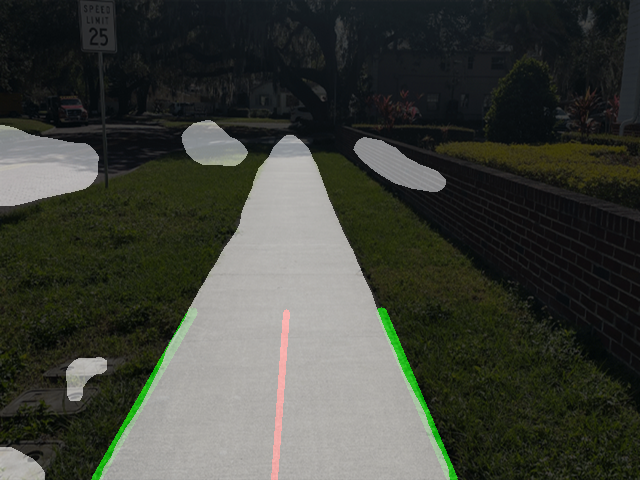
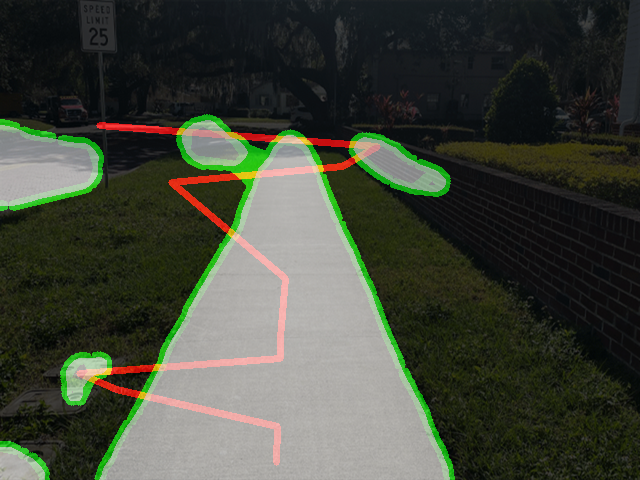
draw lines between waypoints

diff --git a/calc_steering_angle.py b/calc_steering_angle.py
@@ -1,7 +1,6 @@
 import os
 import cv2
 import numpy as np
-import logging
 import math
 from PIL import Image
 
@@ -12,11 +11,18 @@ _REDUCED_ROI = False
 '''
 Hough Line Function Parameters
 '''
-rho = 5                  # Resolution of accumulator buckets in pixels, Larger -> more lines
-angle = 1                # Angle resolution of the accumulator in degrees, converted to radians. Larger -> fewer lines found
-min_threshold = 5       # minimal of votes to determine line exists. Larger -> fewer lines
-minLineLength = 1       # minimum length of segment to be considered a line. In pixels
-maxLineGap = 20          # maximum distance between 2 segments to be considered a continuous line
+rho = 5             # Resolution of accumulator buckets in pixels, Larger -> more lines
+angle = 1           # Angle resolution of the accumulator in degrees, converted to radians. Larger -> fewer lines found
+min_threshold = 5   # minimal of votes to determine line exists. Larger -> fewer lines
+minLineLength = 1   # minimum length of segment to be considered a line. In pixels
+maxLineGap = 20     # maximum distance between 2 segments to be considered a continuous line
+
+'''
+Waypoint Parameters
+'''
+x_threshold = 25
+y_threshold = 15
+waypoint_steps = 20
 
 class HandCodedLaneFollower(object):
 
@@ -28,12 +34,9 @@ class HandCodedLaneFollower(object):
     def follow_lane(self, frame):
 
         frame = np.array(frame)
-
-        # Main entry point of the lane follower
         show_image("1-orig", frame)
 
         lane_lines, frame = detect_lane(frame)
-
         final_frame = self.steer(frame, lane_lines)
 
         return final_frame
@@ -46,14 +49,17 @@ class HandCodedLaneFollower(object):
 
         show_image("7-heading", curr_heading_image)
 
+        if (_CURVES):
+            draw_waypoint_lines(frame, waypoints)
+            curr_heading_image = draw_waypoint_lines(frame, waypoints)
+            show_image("8-waypoints", curr_heading_image)
+
         return curr_heading_image
 
 ############################
 # Frame processing steps
 ############################
 def detect_lane(frame):
-    logging.debug('detecting lane lines...')
-
     edges = detect_edges(frame)
     show_image('2-edges', edges)
 
@@ -70,12 +76,10 @@ def detect_lane(frame):
 
     return lane_lines, lane_lines_image
 
-# detects blue lines formed by edge detected algo
 def detect_edges(frame):
     edges = cv2.Canny(np.array(frame), 50, 200)
     return edges
 
-# Used to remove segmentations that are too far away and are irrelevant to the current state of the bot.
 def region_of_interest(img):
     """
     Applies an image mask.
@@ -94,13 +98,13 @@ def region_of_interest(img):
     left_up = [0, 0]
     right_up = [width - 1, 0]
     if (_REDUCED_ROI):
-        left_up = [scale_w * width, scale_h * height] # for reduced ROI
-        right_up = [(1 - scale_w) * width, scale_h * height] # for reduced ROI
+        left_up = [scale_w * width, scale_h * height]
+        right_up = [(1 - scale_w) * width, scale_h * height]
     vertices = np.array([[left_bottom, left_up, right_up, right_bottom]], dtype=np.int32)
 
     # defining a 3 channel or 1 channel color to fill the mask with depending on the input image
     if len(img.shape) > 2:
-        channel_count = img.shape[2]  # i.e. 3 or 4 depending on your image
+        channel_count = img.shape[2]
         ignore_mask_color = (255,) * channel_count
     else:
         ignore_mask_color = 255
@@ -140,10 +144,10 @@ def average_slope_intercept(frame, line_segments):
     right_fit = []
 
     boundary = 1/3
-    left_region_boundary = width * (1 - boundary)  # left lane line segment should be on left 2/3 of the screen
-    right_region_boundary = width * boundary # right lane line segment should be on left 2/3 of the screen
+    left_region_boundary = width * (1 - boundary)   # left lane line segment should be on left 2/3 of the screen
+    right_region_boundary = width * boundary        # right lane line segment should be on left 2/3 of the screen
 
-    threshold_angle = 25  # if the line angle is between -25 to 25 degrees, lines are discarded
+    threshold_angle = 25  # discard lines between -25 and +25 degrees
     threshold_slope = math.tan(threshold_angle / 180 * math.pi)
 
     for line_segment in line_segments:
@@ -152,9 +156,9 @@ def average_slope_intercept(frame, line_segments):
             slope = fit[0]
             intercept = fit[1]
 
-            if x1 == x2: # line is vertical, skip
+            if x1 == x2:                        # line is vertical, skip
                 continue
-            if abs(slope) < threshold_slope:  # remove horizontal lines
+            if abs(slope) < threshold_slope:    # remove horizontal lines
                 continue
             if slope < 0:
                 if x1 < left_region_boundary and x2 < left_region_boundary:
@@ -175,16 +179,13 @@ def average_slope_intercept(frame, line_segments):
 
 def compute_steering_angle(frame, lane_lines):
     """ 
-    If _CURVES is true, this function displays a set of waypoints and returns an array of steering angles for each waypoint
-    else if _CURVES is false, this function returns the steering angle based on the lane lines
+    If _CURVES is true, this function returns an image with boundary lines and waypoints
+    else if _CURVES is false, this function returns the steering angle based on a pair of lane lines
     """
     if len(lane_lines) == 0:
         return 90
 
     if (_CURVES):
-        x_threshold = 5
-        y_threshold = 15
-        waypoint_steps = 20
         waypoints = []
 
         img_with_lines = np.zeros_like(frame)
@@ -193,8 +194,9 @@ def compute_steering_angle(frame, lane_lines):
         lower_green = np.array([0,250,0])
         upper_green = np.array([1,255,1])
         mask = cv2.inRange(img_with_lines, lower_green, upper_green)
-        coord = cv2.findNonZero(mask) # already sorted by y
+        coord = cv2.findNonZero(mask)           # already sorted by y
         num_lines, _, _ = np.shape(coord)
+
         if coord is not None:
             for i in range(0, num_lines-1):
                 if i % waypoint_steps == 0:
@@ -204,7 +206,7 @@ def compute_steering_angle(frame, lane_lines):
                     y2 = coord[i+1][0][1]
 
                     if (abs(x1 - x2) < x_threshold):
-                        continue # don't draw circle between points too close together
+                        continue                # don't draw circle between points too close together
                     if (y1 == y2):
                         if (len(waypoints) > 0 and (abs(y1 - waypoints[-1][1]) < y_threshold)):
                             continue
@@ -220,11 +222,9 @@ def compute_steering_angle(frame, lane_lines):
         left_x1, left_y1, left_x2, left_y2 = lane_lines[0][0]
         right_x1, right_y1, right_x2, right_y2 = lane_lines[1][0]
 
-        camera_mid_offset_percent = 0.0 # 0.0 means car pointing to center, -0.03: car is centered to left, +0.03 means car pointing to right
-
-        mid_start_x = int((left_x1 + right_x1) / 2 * (1 + camera_mid_offset_percent))
+        mid_start_x = int((left_x1 + right_x1) / 2)
         mid_start_y = int((left_y1 + right_y1) / 2)
-        mid_end_x = int((left_x2 + right_x2) / 2 * (1 + camera_mid_offset_percent))
+        mid_end_x = int((left_x2 + right_x2) / 2)
         mid_end_y = int((left_y2 + right_y2) / 2)
 
     # Find slope of line connecting 2 points
@@ -234,8 +234,6 @@ def compute_steering_angle(frame, lane_lines):
         steering_angle = 90
     else:
         slope = y_diff / x_diff
-
-        # Find angle from slope
         steering_angle = math.degrees(math.atan(slope))
 
     heading_line_img = display_heading_line(frame, (mid_start_x, mid_start_y), (mid_end_x, mid_end_y))
@@ -243,11 +241,27 @@ def compute_steering_angle(frame, lane_lines):
 
     return steering_angle, heading_line_img
 
-
 ############################
 # Utility Functions
 ############################
+def draw_waypoint_lines(frame, waypoints):
+    """ 
+    Draws lines between waypoints
+    """
+    img_with_lines = np.zeros_like(frame)
+    for i in range(0, len(waypoints)-1):
+        x1 = waypoints[i][0]
+        y1 = waypoints[i][1]
+        x2 = waypoints[i+1][0]
+        y2 = waypoints[i+1][1]
+        cv2.line(img_with_lines, (x1, y1), (x2, y2), (255, 0, 0), 5)
+    img_with_lines = cv2.addWeighted(frame, 0.8, img_with_lines, 1, 1)
+    return img_with_lines
+
 def display_lines(frame, lines, line_color=(0, 255, 0), line_width=10):
+    '''
+    Displays all lines onto the given frame
+    '''
     line_image = np.zeros_like(frame)
     if lines is not None:
         for line in lines:
@@ -260,10 +274,12 @@ def display_heading_line(frame, p1, p2, line_color=(255, 0, 0), line_width=5):
     heading_image = np.zeros_like(frame)
     cv2.line(heading_image, p1, p2, line_color, line_width)
     heading_image = cv2.addWeighted(frame, 0.8, heading_image, 1, 1)
-
     return heading_image
 
 def show_image(title, frame, show=_SHOW_IMAGE):
+    '''
+    Renders an image to an opencv popup window.
+    '''
     if show:
         img = Image.fromarray(frame)
         path = ['img_output', 'process', title + '.png']
@@ -271,12 +287,14 @@ def show_image(title, frame, show=_SHOW_IMAGE):
         cv2.imshow(title, frame)
         cv2.waitKey()
 
-# Given a slope and intercept, output start and end coordinates of a line
 pre_l_slopes = []
 pre_l_inters = []  
 pre_r_slopes = []
 pre_r_inters = []
 def make_points(slope, inter, side, height):
+    '''
+    Given a slope and intercept, output start and end points of that line.
+    '''
     number_buffer_frames = 3
     scale_y = 0.65
     top_y = int(float(height) * scale_y)  # fix the y coordinates of the top point, so that the line is more stable
@@ -311,12 +329,3 @@ def make_points(slope, inter, side, height):
         p2_x = int((float(p2_y)-inter)/slope)
 
     return [[p1_x, p1_y, p2_x, p2_y]]
-
-############################
-# Test Functions
-############################
-def test_photo(test_image):
-    land_follower = HandCodedLaneFollower()
-    #frame = cv2.imread(test_image)
-    combo_image = land_follower.follow_lane(test_image)
-    show_image('final', combo_image, True)

diff --git a/main.py b/main.py
@@ -97,8 +97,6 @@ def main():
         model = nn.DataParallel(model)
         model.to(device)
 
-    # denorm = utils.Denormalize(mean=[0.485, 0.456, 0.406], std=[0.229, 0.224, 0.225])  # denormalization for ori images
-
     if opts.crop_val:
         transform = T.Compose([
                 T.Resize(opts.crop_size),
@@ -143,8 +141,6 @@ def main():
             # Create instance of steering angle calculator
             lane_follower = st_util.HandCodedLaneFollower(img_name)
 
-            # Function that does a couple of things that could be removed.
-            # Most importantly returns array with boundary line overlay and calls another function that returns steering angle
             pred_with_angle = lane_follower.follow_lane(colorized_preds)
 
             # Create the image
